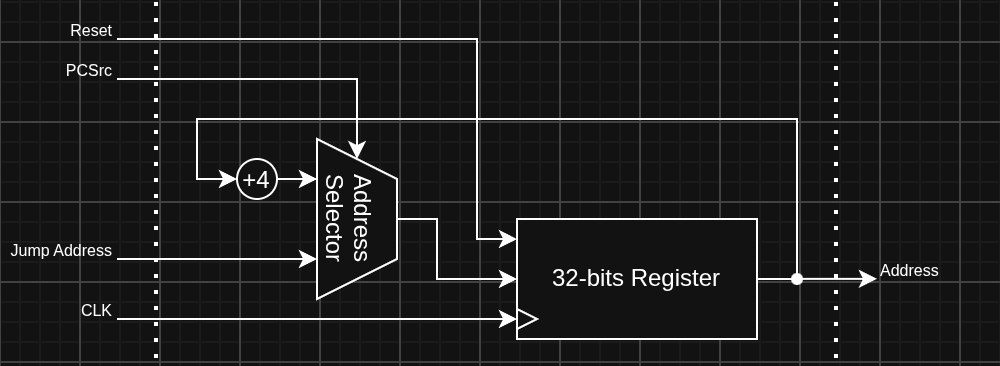
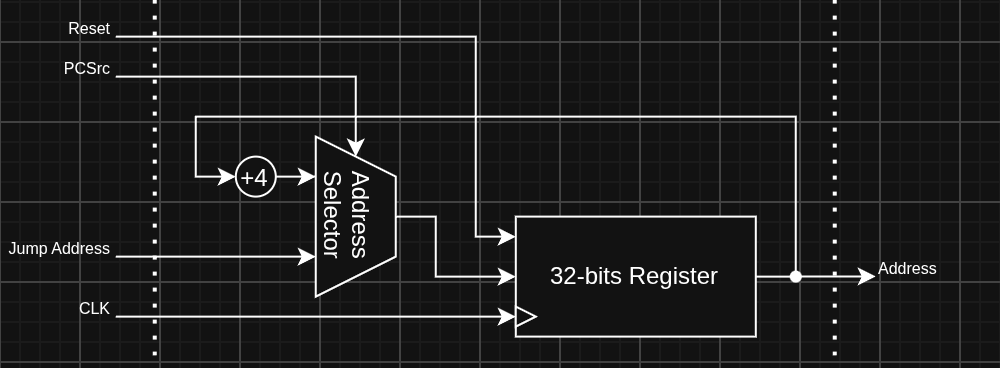
Forgot to start a new line after the diagrams.

Changed region(s): [[0.0, 0.0601, 1.0, 0.9317], [0.0, 0.9617, 1.0, 0.9918]]

diff --git a/docs/README.md b/docs/README.md
@@ -524,17 +524,15 @@ This stage return all the data from all the previous stages back to their corres
 # Hardware Design
 This section covers each component inside the processor. This is difference from the [Microarchitecture](#microarchitecture) section in that, this section goes into inner working of each hardware unit, rather than how data flow through them.<br>
 
-![Processor Diagram](./imgs/hardware_design/processor.png)
+![Processor Diagram](./imgs/hardware_design/processor.png)<br>
 Entire diagram of the processor.<br>
 
 The order of each component is sorted by how early they are occurred in the instruction pipeline.<br>
 ## Program Counter (PC)
+![Program Counter Diagram](./imgs/hardware_design/program_counter.png)<br>
 Program Counter keeps track of the current instruction address.<br>
 Program Counter is a 32-bits register with input hook up to a multiplexer. The multiplexer choose between 2 source inputs for it 1 output, the source of it output is either value of the Program Counter + 4 bytes (essentially the next instruction address), or also the value of Program Counter with difference processing like + offset.<br>
 The PCSrc Control Signal for controlling the source of the output is generated from the [Execution Unit](#execution-unit-eu).<br>
-
-![Program Counter Diagram](./imgs/hardware_design/program_counter.png)<br>
-Diagram of the inside of Program Counter<br>
 
 ## Instruction Memory
 Instruction Memory holds all the instruction that the processor will use for processing. The processor uses 32-bits address from Program Counter to fetch an instruction from that specific address.<br>
@@ -542,7 +540,7 @@ Instruction Memory holds all the instruction that the processor will use for pro
 C0's memory is similar to Harvard Architecture's memory, meaning that instruction and data lives in difference memory. They have their own memory space.<br>
 
 ## IF/ID Interstage Registers
-![IF/ID Interstage Registers Diagram](./imgs/hardware_design/if-id_interstage_registers.png)
+![IF/ID Interstage Registers Diagram](./imgs/hardware_design/if-id_interstage_registers.png)<br>
 Just like in the pipeline diagram, there are two registers, both are 32-bits long. They're the following.<br>
 1. Instruction Register
     - Instruction Register temporary holds instruction from [Instruction Memory](#instruction-memory).<br>
@@ -551,7 +549,7 @@ Just like in the pipeline diagram, there are two registers, both are 32-bits lon
     - This register only hold the value of the current instruction address, it's for further processing in the [EX Stage](#execute-stage-ex) of the pipeline, or by the [EU](#execution-unit-eu).<br>
 
 ## Control Unit (CU)
-![Control Unit Diagram](./imgs/hardware_design/control_unit.png)
+![Control Unit Diagram](./imgs/hardware_design/control_unit.png)<br>
 Control Unit is a stateless combinational logic that controls the flow of the data. It controls the flow of data by sending multiple Control Signals to multiple part of the processor.<br>
 Being a stateless combinational logic means that the CU updates its Control Signals instantly after receiving new input values.<br>
 
@@ -563,11 +561,11 @@ This unit generates all sort of Control Signals for the processor. It took opcod
 The Control Signals generate by this unit is the same as the one in the [ID Stage](#decode-stage-id) diagram.<br>
 
 ## Immediate Assembler
-Immediate Assembler took raw immediate data and format type from [Instruction Decoder](#instruction-decoder), and assemble the immediate value into usable 32-bits length form.
+Immediate Assembler took raw `imm` data and [Instruction Format Type](#instruction-formats) from [Instruction Decoder](#instruction-decoder), and assemble the immediate value into usable 32-bits length form.
 
 ## Register File
+![Register File Diagram](./imgs/hardware_design/register_file.png)<br>
 Register File is where all 32 registers of this processor live.<br>
-![Register File Diagram](./imgs/hardware_design/register_file.png)
 There are a total of 5 inputs for Register File (not counting reset data and clock line), each is either for writing data into one specific register, or it is for reading two specific register.<br>
 
 For reading data from two registers, there are two specific 5-bits input, both are for selecting the source register. The design of this Register File support reading from 2 registers simultaneously.<br>
@@ -575,7 +573,7 @@ For reading data from two registers, there are two specific 5-bits input, both a
 For writing data into the Register File, there is 1 input for enabling the write mode, another 5-bits input for selecting the destination register, and the other is the 32-bits data that would be writing into a register.<br>
 
 ## ID/EX Interstage Registers
-![ID/EX Interstage Registers Diagram](./imgs/hardware_design/id-ex_interstage_registers.png)
+![ID/EX Interstage Registers Diagram](./imgs/hardware_design/id-ex_interstage_registers.png)<br>
 This interstage contains 12 registers. From this point on, if there are no description for specific registers that would mean they are the same as previous interstage register.<br>
 1. Extended `imm` Register
     - This stage register holds the extended form of `imm` field value from the [Immediate Assembler](#immediate-assembler), this register is 32-bits long.
@@ -604,7 +602,7 @@ This interstage contains 12 registers. From this point on, if there are no descr
 More information on Control Signal [here](#decode-stage-id).
 
 ## Execution Unit (EU)
-![Execution Unit Diagram](./imgs/hardware_design/execution_unit.png)
+![Execution Unit Diagram](./imgs/hardware_design/execution_unit.png)<br>
 Execution Unit pack multiple components for handling the [EX Stage](#execute-stage-ex) of the pipeline into one component.<br>
 
 All Execution Unit's subcomponent are listed down below.<br>
@@ -620,7 +618,7 @@ All this adder do is took the value from [PC](#program-counter-pc), and you gues
 This is specifically for handling jump instruction that link the return address, this is because the [ALU](#arithmetic-and-logic-unit-alu) will be occupied by address calculation. So, there is this small adder for calculating the next instruction address.<br>
 
 ## EX/MEM Interstage Registers
-![EX/MEM Interstage Registers Diagram](./imgs/hardware_design/ex-mem_interstage_registers.png)
+![EX/MEM Interstage Registers Diagram](./imgs/hardware_design/ex-mem_interstage_registers.png)<br>
 In this interstage, there will be 9 registers, mostly still Control Signal registers.<br>
 1. `PCSrc` Control Signal Register
     - This interstage register holds the Control Signal that controls the source of [PC](#program-counter-pc) between the next instruction address, and the jump address calculated by the [ALU](#arithmetic-and-logic-unit-alu). This register is only 1-bit wide.
@@ -636,7 +634,7 @@ In this interstage, there will be 9 registers, mostly still Control Signal regis
 9. [`rdWrite` Control Signal Register](#idex-interstage-registers)
 
 ## Address Decoder
-![Address Decoder Diagram](./imgs/hardware_design/address_decoder.png)
+![Address Decoder Diagram](./imgs/hardware_design/address_decoder.png)<br>
 Address Decoder identify if the address is for [Data Memory](#data-memory) or for the peripheral device. After identifying the target, it then redirects the remaining address bits, write data and Control Signals into either the [Data Memory](#data-memory) or peripheral device.<br>
 If the target is peripheral device, the data will be redirected to [Peripheral Controller](#peripheral-controller) for further decoding to identify the exact device.<br>
 
@@ -654,7 +652,7 @@ Peripheral Controller decodes the remaining 31-bits address even further to iden
 This multiplexer handles choosing between data from [Data Memory](#data-memory) or [Peripheral Controller](#peripheral-controller) by using the `DeviceDataSrc` Control Signal generated by the [Address Decoder](#address-decoder).<br>
 
 ## MEM/WB Interstage Registers
-![MEM/WB Interstage Registers Diagram](./imgs/hardware_design/mem-wb_interstage_registers.png)
+![MEM/WB Interstage Registers Diagram](./imgs/hardware_design/mem-wb_interstage_registers.png)<br>
 This interstage have 7 registers, most are not Control Signal now. They are the following.<br>
 1. [`PCSrc` Control Signal Register](#exmem-interstage-registers)
 2. [ALU Result Register](#exmem-interstage-registers)
